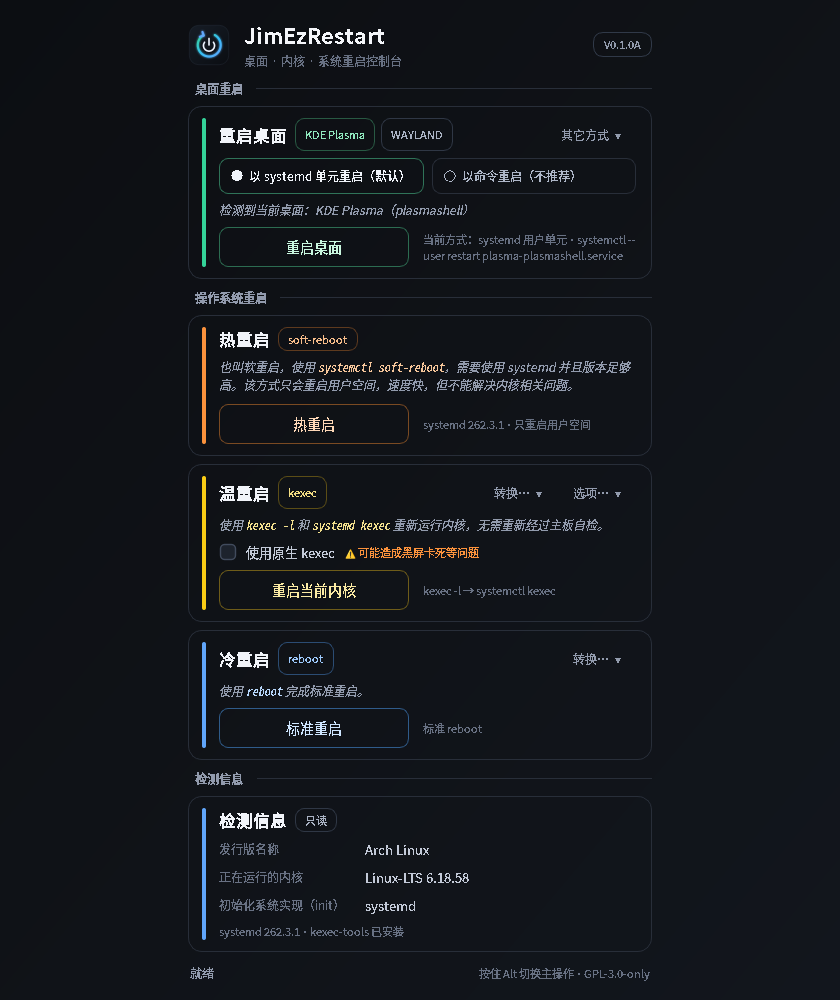
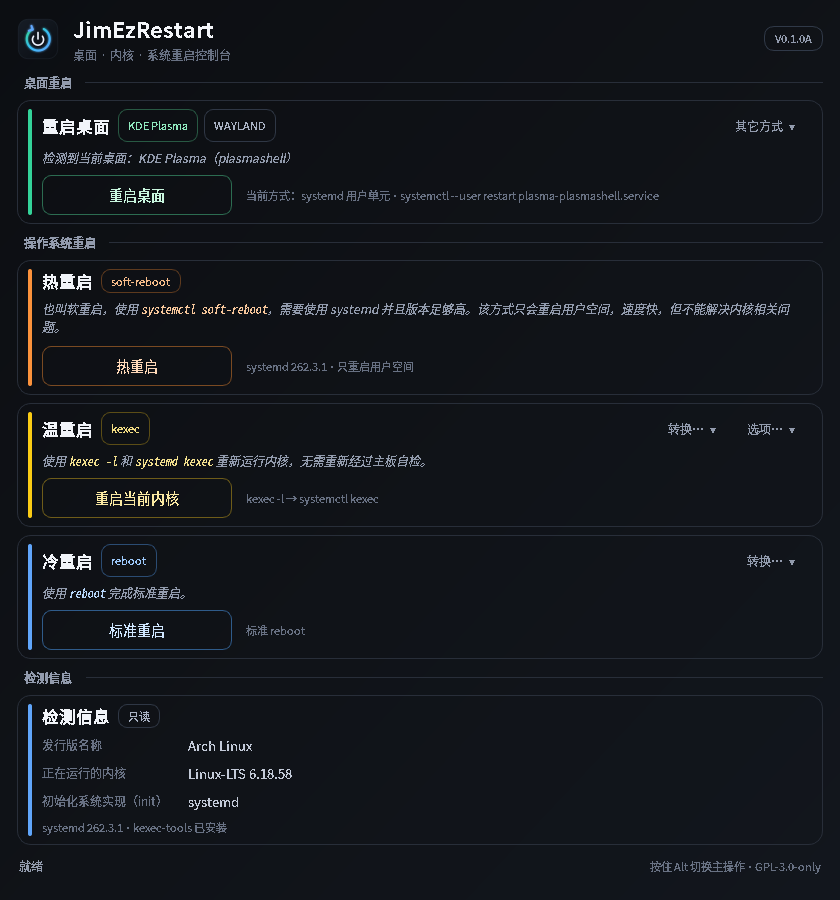
fix: 移除主界面重复选项并收窄界面边距
选项统一收进“其它方式”“转换…”“选项…”菜单；内容列改为撑满窗口并居中，页面与卡片内边距同步收紧。

diff --git a/src/jimezrestart/ui/main_window.py b/src/jimezrestart/ui/main_window.py
@@ -8,7 +8,6 @@ from PyQt6.QtCore import QEvent, QProcess, Qt, QTimer
 from PyQt6.QtGui import QAction, QActionGroup, QCloseEvent
 from PyQt6.QtWidgets import (
     QApplication,
-    QButtonGroup,
     QFrame,
     QHBoxLayout,
     QLabel,
@@ -43,14 +42,12 @@ from .theme import ACCENTS, PALETTE
 from .widgets import (
     Card,
     CardHeader,
-    CheckRow,
     Divider,
     DualActionButton,
     FinePrint,
     HintLabel,
     InfoRow,
     MenuButton,
-    MethodButton,
     PrimaryButton,
     SectionTitle,
     logo_label,
@@ -84,7 +81,7 @@ class MainWindow(QMainWindow):
         self._aux_proc: QProcess | None = None
 
         self.setWindowTitle(f"{APP_NAME} {DISPLAY_VERSION}")
-        self.resize(840, 1000)
+        self.resize(840, 900)
         self.setMinimumSize(700, 720)
         self._build_ui()
         self._refresh_actions()
@@ -125,11 +122,17 @@ class MainWindow(QMainWindow):
 
         column = QWidget(content)
         column.setMaximumWidth(860)
-        column.setSizePolicy(QSizePolicy.Policy.Preferred, QSizePolicy.Policy.Preferred)
-        content_layout.addWidget(column, 0, Qt.AlignmentFlag.AlignHCenter | Qt.AlignmentFlag.AlignTop)
+        column.setSizePolicy(QSizePolicy.Policy.Expanding, QSizePolicy.Policy.Preferred)
+        centered = QHBoxLayout()
+        centered.setContentsMargins(0, 0, 0, 0)
+        centered.setSpacing(0)
+        centered.addStretch(1)
+        centered.addWidget(column, 1000)
+        centered.addStretch(1)
+        content_layout.addLayout(centered, 1)
 
         col = QVBoxLayout(column)
-        col.setContentsMargins(28, 20, 28, 16)
+        col.setContentsMargins(16, 14, 16, 12)
         col.setSpacing(8)
 
         col.addLayout(self._build_header())
@@ -208,30 +211,6 @@ class MainWindow(QMainWindow):
         header.add_menu(menu)
         card.add(header)
 
-        methods = QHBoxLayout()
-        methods.setContentsMargins(0, 0, 0, 0)
-        methods.setSpacing(8)
-
-        self.unit_method_button = MethodButton(
-            "以 systemd 单元重启（默认）", "green", card
-        )
-        self.unit_method_button.clicked.connect(lambda: self._set_desktop_mode("unit"))
-        methods.addWidget(self.unit_method_button, 1)
-
-        self.command_method_button = MethodButton(
-            "以命令重启（不推荐）", "green", card
-        )
-        self.command_method_button.clicked.connect(
-            lambda: self._set_desktop_mode("command")
-        )
-        methods.addWidget(self.command_method_button, 1)
-        card.add_layout(methods)
-
-        method_group = QButtonGroup(self)
-        method_group.setExclusive(True)
-        method_group.addButton(self.unit_method_button)
-        method_group.addButton(self.command_method_button)
-
         self.desktop_note = HintLabel(self._desktop_note(), card)
         card.add(self.desktop_note)
 
@@ -309,9 +288,13 @@ class MainWindow(QMainWindow):
 
         options = MenuButton("选项…", card)
         options.setMenu(QMenu(options))
+        options.menu().setToolTipsVisible(True)
         self.warm_options_menu = options.menu()
-        self.native_action = QAction("使用原生 kexec", self)
+        self.native_action = QAction("使用原生 kexec（⚠ 可能黑屏卡死）", self)
         self.native_action.setCheckable(True)
+        self.native_action.setToolTip(
+            "载入内核后直接执行 kexec -e，绕过 systemd；部分硬件上可能黑屏或卡死。"
+        )
         self.native_action.toggled.connect(self._on_native_action_toggled)
         options.menu().addAction(self.native_action)
         options.menu().addSeparator()
@@ -328,25 +311,6 @@ class MainWindow(QMainWindow):
             card,
         )
         card.add(hint)
-
-        option_row = QHBoxLayout()
-        option_row.setContentsMargins(0, 2, 0, 0)
-        option_row.setSpacing(10)
-        self.native_check = CheckRow("使用原生 kexec", card)
-        self.native_check.set_accent("yellow")
-        self.native_check.toggled.connect(self._on_native_check_toggled)
-        option_row.addWidget(self.native_check, 0, Qt.AlignmentFlag.AlignVCenter)
-
-        warning = QLabel("⚠ 可能造成黑屏卡死等问题", card)
-        warning.setObjectName("finePrint")
-        warning.setStyleSheet(f"color: {PALETTE.orange}; font-size: 11px;")
-        warning.setToolTip(
-            "原生 kexec 绕过 systemd，直接调用 kexec -e。\n"
-            "在部分固件、显卡驱动或加密磁盘环境下可能黑屏、卡死或无法启动。"
-        )
-        option_row.addWidget(warning, 0, Qt.AlignmentFlag.AlignVCenter)
-        option_row.addStretch(1)
-        card.add_layout(option_row)
 
         action_row = QHBoxLayout()
         action_row.setContentsMargins(0, 1, 0, 0)
@@ -516,18 +480,14 @@ class MainWindow(QMainWindow):
         else:
             unit_reason = unit.reason
 
-        self.unit_method_button.setChecked(self.desktop_mode == "unit")
-        self.command_method_button.setChecked(self.desktop_mode == "command")
-        self.unit_method_button.setEnabled(unit_available and not self._busy)
-        self.command_method_button.setEnabled(command.available and not self._busy)
-        self.unit_method_button.setToolTip(unit_reason if not unit_available else unit.hint)
-        self.command_method_button.setToolTip(
-            command.reason if not command.available else command.hint
-        )
         self.unit_action.setEnabled(unit_available and not self._busy)
         self.command_action.setEnabled(command.available and not self._busy)
         self.unit_action.setChecked(self.desktop_mode == "unit")
         self.command_action.setChecked(self.desktop_mode == "command")
+        self.unit_action.setToolTip(unit_reason if not unit_available else unit.hint)
+        self.command_action.setToolTip(
+            command.reason if not command.available else command.hint
+        )
 
         self._set_dual_text(
             self.desktop_button,
@@ -582,19 +542,18 @@ class MainWindow(QMainWindow):
         restart_ok = active_ok and current is not None and current.available
         switch_ok = active_ok
 
-        self.native_check.setEnabled(native_available and not self._busy)
         self.native_action.setEnabled(native_available and not self._busy)
         self.native_action.setChecked(self.native_kexec)
         if base:
-            self.native_check.setToolTip(base)
-        elif self.native_kexec:
-            self.native_check.setToolTip("将通过 kexec -e 直接重启，绕过 systemd。")
+            self.native_action.setToolTip(base)
         elif not self.system.is_systemd:
-            self.native_check.setToolTip(
-                "当前 init 不是 systemd；勾选后使用 kexec -e 直接重启，无需 systemd。"
+            self.native_action.setToolTip(
+                "当前 init 不是 systemd；启用后使用 kexec -e 直接重启，无需 systemd。"
             )
         else:
-            self.native_check.setToolTip("勾选后使用 kexec -e 直接重启。")
+            self.native_action.setToolTip(
+                "载入内核后直接执行 kexec -e，绕过 systemd；部分硬件上可能黑屏或卡死。"
+            )
 
         self.warm_restart_action.setEnabled(restart_ok and not self._busy)
         self.warm_switch_action.setEnabled(switch_ok and not self._busy)
@@ -731,18 +690,8 @@ class MainWindow(QMainWindow):
         self.cold_mode = mode
         self._refresh_actions()
 
-    def _on_native_check_toggled(self, checked: bool) -> None:
-        self.native_kexec = checked
-        self.native_action.blockSignals(True)
-        self.native_action.setChecked(checked)
-        self.native_action.blockSignals(False)
-        self._refresh_actions()
-
     def _on_native_action_toggled(self, checked: bool) -> None:
         self.native_kexec = checked
-        self.native_check.blockSignals(True)
-        self.native_check.setChecked(checked)
-        self.native_check.blockSignals(False)
         self._refresh_actions()
 
     def _show_kexec_help(self) -> None:

diff --git a/tests/test_ui.py b/tests/test_ui.py
@@ -66,10 +66,23 @@ class UiTests(unittest.TestCase):
         self.window._set_warm_mode("restart")
         self.assertEqual(self.window.warm_button.text(), "重启当前内核")
 
+    def test_options_only_exist_in_menus(self):
+        self.assertFalse(hasattr(self.window, "unit_method_button"))
+        self.assertFalse(hasattr(self.window, "command_method_button"))
+        self.assertFalse(hasattr(self.window, "native_check"))
+        self.assertEqual(
+            [a.text() for a in self.window.desktop_menu.actions()],
+            ["以 systemd 单元重启（默认）", "以命令重启（不推荐）"],
+        )
+        self.assertIn(
+            "使用原生 kexec",
+            self.window.native_action.text(),
+        )
+
     def test_desktop_command_mode(self):
         self.window._set_desktop_mode("command")
         self.assertEqual(self.window.desktop_mode, "command")
-        self.assertTrue(self.window.command_method_button.isChecked())
+        self.assertTrue(self.window.command_action.isChecked())
         self.assertEqual(self.window.desktop_button.text(), "以命令重启桌面")
         self.assertIn("命令", self.window.desktop_hint.text())
 
@@ -137,9 +150,9 @@ class UiTests(unittest.TestCase):
             self.assertIn("不是 systemd", window.hot_button.toolTip())
             self.assertFalse(window.warm_button.isEnabled())
             self.assertIn("原生 kexec", window.warm_button.toolTip())
-            self.assertTrue(window.native_check.isEnabled())
+            self.assertTrue(window.native_action.isEnabled())
 
-            window.native_check.setChecked(True)
+            window.native_action.setChecked(True)
             self.assertTrue(window.native_kexec)
             self.assertTrue(window.warm_button.isEnabled())
             self.assertEqual(window.warm_button.text(), "重启当前内核")
@@ -161,8 +174,8 @@ class UiTests(unittest.TestCase):
         window = MainWindow(system, self.desktop, self.kernels, demo=True)
         try:
             self.assertEqual(window.desktop_mode, "command")
-            self.assertFalse(window.unit_method_button.isEnabled())
-            self.assertIn("systemd", window.unit_method_button.toolTip())
+            self.assertFalse(window.unit_action.isEnabled())
+            self.assertIn("systemd", window.unit_action.toolTip())
             self.assertTrue(window.desktop_button.isEnabled())
         finally:
             window.close()
@@ -175,7 +188,7 @@ class UiTests(unittest.TestCase):
         try:
             self.assertFalse(window.warm_button.isEnabled())
             self.assertIn("kexec-tools", window.warm_button.toolTip())
-            self.assertFalse(window.native_check.isEnabled())
+            self.assertFalse(window.native_action.isEnabled())
         finally:
             window.close()
             window.deleteLater()

diff --git a/src/jimezrestart/ui/widgets.py b/src/jimezrestart/ui/widgets.py
@@ -47,8 +47,8 @@ class Card(QFrame):
         self.accent = accent
 
         outer = QHBoxLayout(self)
-        outer.setContentsMargins(13, 11, 15, 11)
-        outer.setSpacing(13)
+        outer.setContentsMargins(10, 8, 12, 8)
+        outer.setSpacing(10)
 
         self.bar = AccentBar(accent, self)
         outer.addWidget(self.bar)

diff --git a/scripts/screenshot.py b/scripts/screenshot.py
@@ -20,7 +20,7 @@ def main() -> int:
     app = QApplication(sys.argv)
     apply_theme(app)
     window = MainWindow(*demo_data(), demo=True)
-    window.resize(840, 1000)
+    window.resize(840, 900)
     window.show()
     app.processEvents()
     target = Path(__file__).resolve().parent.parent / "screenshots" / "main.png"
